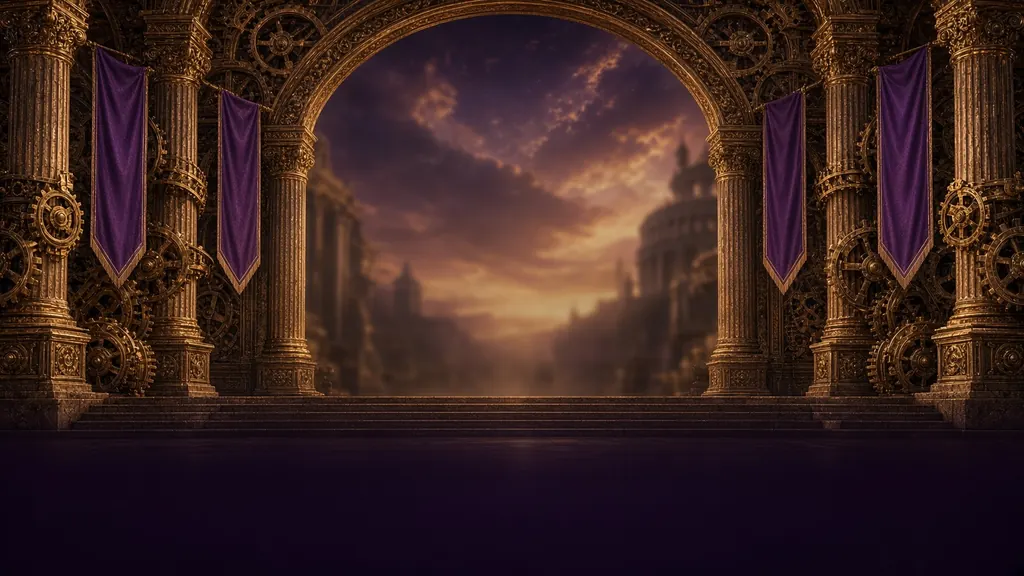
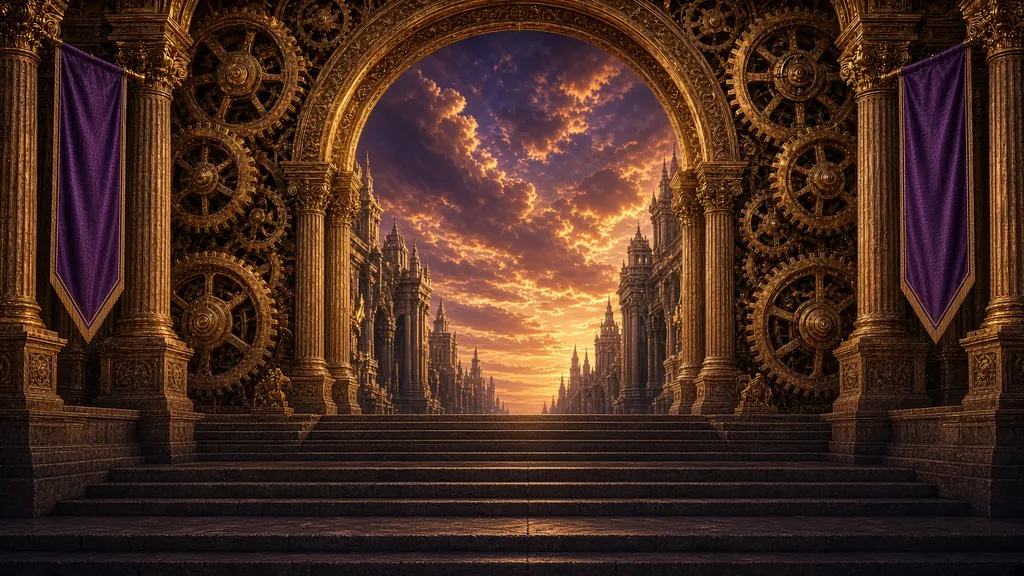
Preview: HQ hall background; seals sit in front of the card frame

diff --git a/preview/home-v2.html b/preview/home-v2.html
@@ -74,8 +74,8 @@
     @keyframes drift { from { transform: scale(1.02); } to { transform: scale(1.09) translateY(-1%); } }
     .hero::after { /* keep the cards readable and melt into the page */
       content: ""; position: absolute; inset: 0; z-index: -1;
-      background: radial-gradient(ellipse 60% 45% at 50% 30%, rgba(21,12,34,.15), transparent 70%),
-                  linear-gradient(180deg, transparent 38%, rgba(21,12,34,.55) 62%, var(--enamel) 96%);
+      background: radial-gradient(ellipse 42% 30% at 50% 24%, rgba(18,10,30,.55), transparent 75%),
+                  linear-gradient(180deg, rgba(18,10,30,.25), transparent 22%, transparent 34%, rgba(21,12,34,.7) 58%, var(--enamel) 92%);
     }
     .hero__head { text-align: center; max-width: 900px; margin: 0 auto; }
     h1 { font: 400 clamp(40px, 5.2vw, 72px)/1.08 var(--serif); margin: 0; text-wrap: balance; color: #fff7e6;
@@ -103,8 +103,12 @@
     .bot--tide::before { animation-delay: -2.7s; } .bot--acc::before { animation-delay: -5.3s; }
     @keyframes bifrost { to { --a: 360deg; } }
 
-    .seal { position: absolute; top: -88px; left: 50%; width: 176px; height: 176px; margin-left: -88px;
+    .seal { position: absolute; z-index: 3; top: -88px; left: 50%; width: 176px; height: 176px; margin-left: -88px;
       filter: drop-shadow(0 12px 18px rgba(0,0,0,.6)); }
+    .seal::before { /* hides the card's frame line behind the seal */
+      content: ""; position: absolute; inset: -10px; border-radius: 50%;
+      background: radial-gradient(circle closest-side, #1d1230 86%, rgba(29,18,48,.8) 93%, transparent 100%);
+      -webkit-mask: linear-gradient(180deg, transparent 44%, #000 49%); mask: linear-gradient(180deg, transparent 44%, #000 49%); }
     .seal__ring, .seal__core { position: absolute; inset: 0; background: center / contain no-repeat; }
     .seal__ring { animation: turn 70s linear infinite; }   /* only the outer teeth turn; the wax stays still */
     .bot:hover .seal__ring { animation-duration: 9s; }
